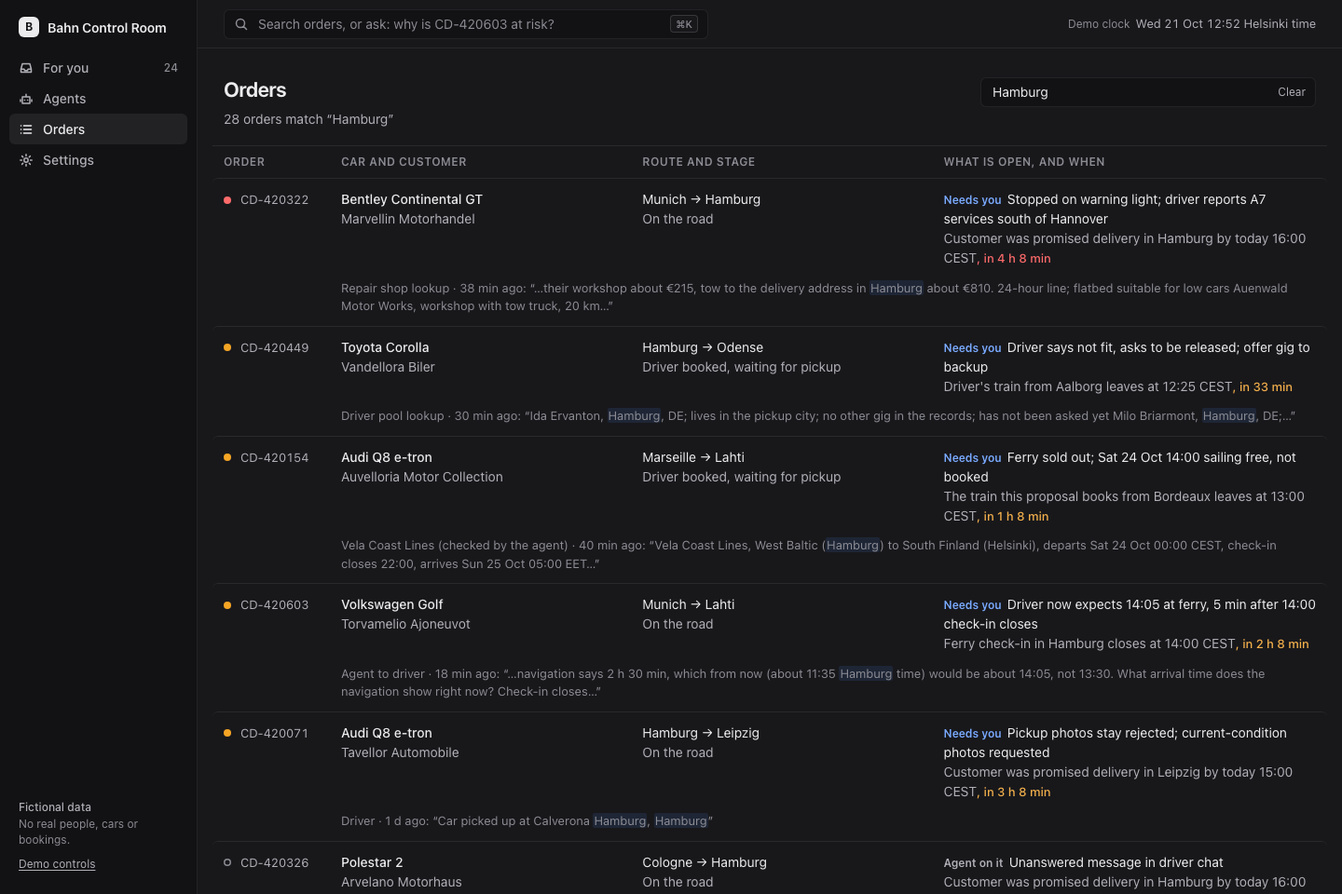
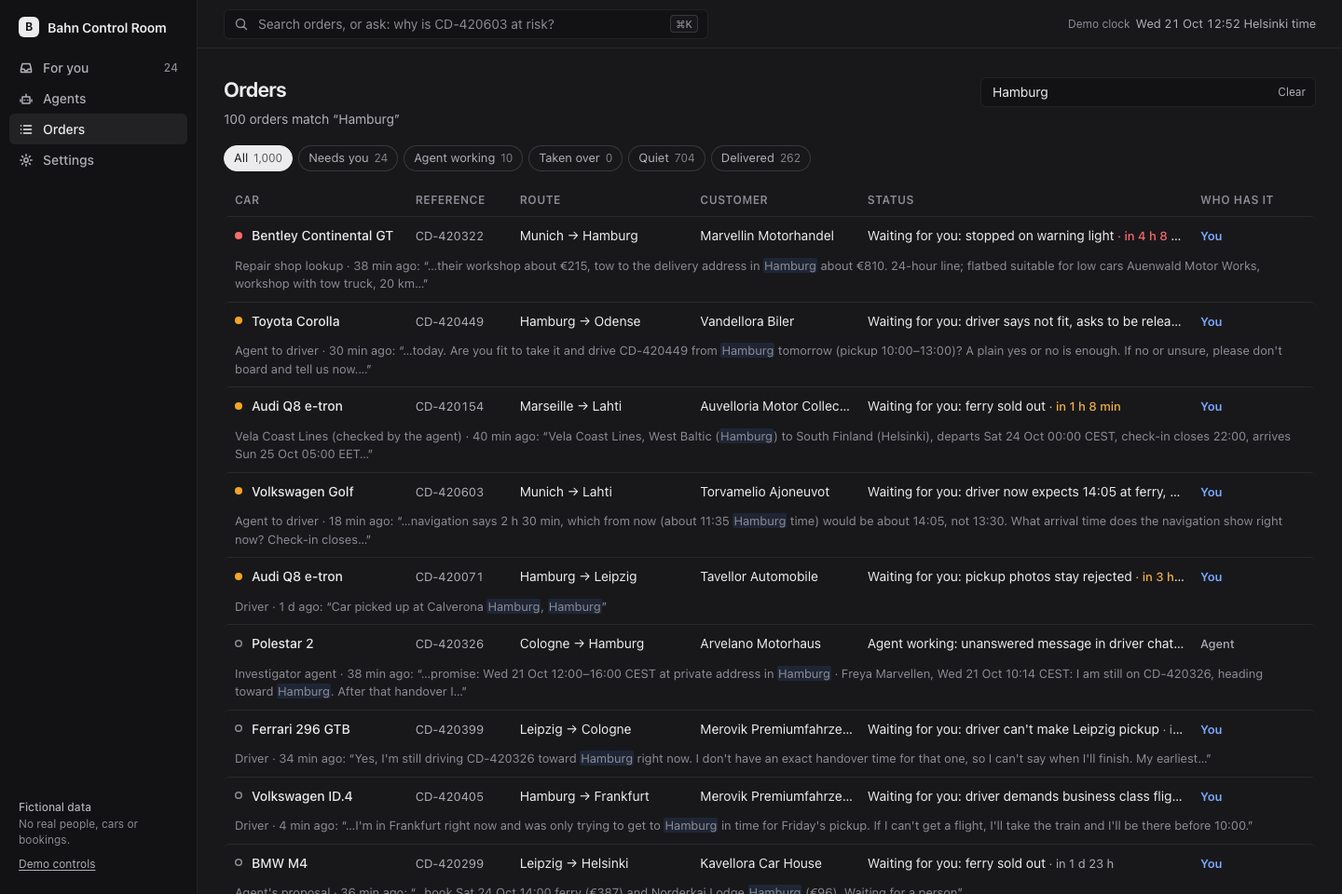
Orders: fix the 404 (stale dev server) and rebuild the page as a table
/orders and every order page returned 404 from a dev server that had
compiled an old starter page and lost its routes; a restart with a clean
.next fixed it. The Orders page is now a table (car, reference, route,
customer, one status sentence, who has it) with chips (Needs you, Agent
working, Taken over, Quiet, Delivered) counted with For you's own rule,
and it compiles only the open orders and one page of the rest, so it stays
fast with 1,000.

diff --git a/starter/app/orders/page.tsx b/starter/app/orders/page.tsx
@@ -1,96 +1,140 @@
 import type { Metadata } from "next"
 import Link from "next/link"
 import { connection } from "next/server"
-import { and, asc, eq, gt, inArray, notInArray, or } from "drizzle-orm"
-import { getCases, orderCount, ordersWithOpenItems, search, type SearchHit } from "@/lib/case"
+import { and, asc, eq, notInArray } from "drizzle-orm"
+import { getCases, orderCount, search, type SearchHit } from "@/lib/case"
 import { now as clockNow } from "@/lib/clock"
 import { db } from "@/lib/db"
-import { orderView } from "@/lib/queue"
-import { quietLine } from "@/lib/quiet-check"
-import { agentRuns, cards, orders } from "@/lib/schema"
+import { holdings, orderView } from "@/lib/queue"
+import { orders } from "@/lib/schema"
 import { liveSignals } from "@/lib/signals"
+import { type Holder, listStatus, problemPhrase } from "@/lib/status"
 import { compareUrgency, urgency, withProposalDeadline } from "@/lib/urgency"
 import { Marked } from "../ui/marked"
 
 export const metadata: Metadata = { title: "Orders" }
 
-type Props = { searchParams: Promise<{ q?: string; quiet?: string }> }
+type Show = "you" | "agent" | "taken" | "quiet" | "delivered"
+type Props = { searchParams: Promise<{ q?: string; show?: string; n?: string }> }
 
-/** Quiet orders shown per page: with 1,000 orders only the open ones and a page of quiet ones are compiled. */
-const QUIET_PAGE = 100
+const CHIPS: { id: Show; label: string }[] = [
+  { id: "you", label: "Needs you" }, { id: "agent", label: "Agent working" }, { id: "taken", label: "Taken over" },
+  { id: "quiet", label: "Quiet" }, { id: "delivered", label: "Delivered" },
+]
+/** Rows per page of orders with nothing open: with 1,000 orders only the open ones and one page of the rest are compiled. */
+const PAGE = 100
+const WHO: Record<Holder, string> = { you: "You", agent: "Agent", nobody: "Nobody needed" }
 
 export default async function Orders({ searchParams }: Props) {
   await connection()
-  const { q = "", quiet: quietParam } = await searchParams
-  const query = q.trim()
-  const quietShown = Math.min(Math.max(Number(quietParam) || QUIET_PAGE, QUIET_PAGE), 5000)
+  const params = await searchParams
+  const query = (params.q ?? "").trim()
+  const show = CHIPS.some((chip) => chip.id === params.show) ? params.show as Show : null
+  const shown = Math.min(Math.max(Number(params.n) || PAGE, PAGE), 5000)
   const at = await clockNow()
-  const [hits, openCards, agentWork, openIds, total] = await Promise.all([
+  const [hits, held, deliveredRows, total] = await Promise.all([
     query ? search(query, 100) : null,
-    db.select({ orderId: cards.orderId, group: cards.group, headline: cards.headline, options: cards.options }).from(cards).where(eq(cards.status, "open")),
-    // An agent on the order: working, waiting for a driver or site, or finished and looking again later.
-    db.select({ orderId: agentRuns.orderId }).from(agentRuns).where(and(inArray(agentRuns.agent, ["Investigator", "Driver support"]),
-      or(inArray(agentRuns.status, ["running", "waiting_driver", "waiting_site"]), and(eq(agentRuns.status, "done"), gt(agentRuns.nextCheckAt, at))))),
-    ordersWithOpenItems(),
+    // Who has each open order, by the same rules as For you's header.
+    holdings(at),
+    // A cheap first cut for the Delivered chip: the order record's status. The compiled case file still decides each row.
+    db.select({ id: orders.id }).from(orders).where(eq(orders.status, "DELIVERED")),
     orderCount(),
   ])
-  // Open means a card waiting for a person, a live signal, or an agent still on it: the same orders For you counts.
-  const cardOf = new Map(openCards.flatMap((row) => [row.orderId, ...(row.group ?? []).map((member) => member.order_id)].map((id) => [id, row] as const)))
-  const agentOn = new Set(agentWork.map((row) => row.orderId).filter((id): id is string => !!id))
-  // Compile only what is shown: the matches, or every order with something open and one page of quiet ones.
-  const open = new Set([...openIds, ...cardOf.keys(), ...agentOn])
-  const quietIds = hits ? [] : (await db.select({ id: orders.id }).from(orders)
-    .where(open.size ? notInArray(orders.id, [...open]) : undefined).orderBy(asc(orders.reference)).limit(quietShown)).map((row) => row.id)
-  const files = await getCases(hits ? hits.map((hit) => hit.orderId) : [...open, ...quietIds])
-  const quietTotal = hits ? 0 : total - open.size
-  const byId = new Map(files.map((file) => [file.order.id, file]))
-  const rows = (hits ? hits.map((hit) => ({ file: byId.get(hit.orderId)!, snippet: hit.snippet })) : files.map((file) => ({ file, snippet: null as SearchHit["snippet"] })))
-    .filter((row) => !!row.file)
-    .map((row) => {
-      const card = cardOf.get(row.file.order.id) ?? null
-      const primary = card?.options.find((option) => option.kind !== "reject" && option.kind !== "answer") ?? null
-      return { ...row, card, urgency: withProposalDeadline(urgency(row.file, at), primary, at), open: !!card || agentOn.has(row.file.order.id) || liveSignals(row.file).length > 0 }
-    })
+  const takenOver = new Set<string>()
+  const { cardOf, holding } = held
+
+  // Who has each order, so the chips can count 1,000 orders while only the open ones are compiled.
+  const open = new Set([...holding.keys(), ...takenOver])
+  const delivered = new Set(deliveredRows.map((row) => row.id).filter((id) => !open.has(id)))
+  const groupOf = (id: string): Show => takenOver.has(id) ? "taken" : holding.get(id) === "agent" ? "agent" : open.has(id) ? "you" : delivered.has(id) ? "delivered" : "quiet"
+  const counts: Record<Show, number> = { you: 0, agent: 0, taken: 0, delivered: delivered.size, quiet: 0 }
+  for (const id of open) counts[groupOf(id)] += 1
+  counts.quiet = total - open.size - delivered.size
+
+  // Compile only what is shown: the matches, one chip's orders, or every open order and one page of the rest.
+  let ids: string[]
+  if (hits) ids = hits.map((hit) => hit.orderId).filter((id) => !show || groupOf(id) === show)
+  else if (show === "you" || show === "agent" || show === "taken") ids = [...open].filter((id) => groupOf(id) === show)
+  else if (show === "delivered") ids = (await db.select({ id: orders.id }).from(orders).where(and(eq(orders.status, "DELIVERED"), open.size ? notInArray(orders.id, [...open]) : undefined)).orderBy(asc(orders.reference)).limit(shown)).map((row) => row.id)
+  else {
+    const exclude = show === "quiet" ? [...open, ...delivered] : [...open]
+    const rest = (await db.select({ id: orders.id }).from(orders).where(exclude.length ? notInArray(orders.id, exclude) : undefined).orderBy(asc(orders.reference)).limit(shown)).map((row) => row.id)
+    ids = show === "quiet" ? rest : [...open, ...rest]
+  }
+  const known = new Map(held.files.map((file) => [file.order.id, file]))
+  const files = [...ids.filter((id) => known.has(id)).map((id) => known.get(id)!), ...await getCases(ids.filter((id) => !known.has(id)))]
+  const snippets = new Map((hits ?? []).map((hit) => [hit.orderId, hit.snippet] as const))
+  const rows = files.map((file) => {
+    const id = file.order.id
+    const card = cardOf.get(id) ?? null
+    const primary = card?.options.find((option) => option.kind !== "reject" && option.kind !== "answer") ?? null
+    const group = groupOf(id)
+    const holder: Holder = group === "you" || group === "taken" ? "you" : group === "agent" ? "agent" : "nobody"
+    const problem = problemPhrase(card?.headline ?? liveSignals(file)[0])
+    return {
+      file, card, holder, snippet: snippets.get(id) ?? null as SearchHit["snippet"],
+      urgency: withProposalDeadline(urgency(file, at), primary, at), open: open.has(id),
+      status: listStatus(file, { holder, problem: holder === "nobody" ? null : problem, takenOver: takenOver.has(id) }, at),
+    }
+  })
   // Filtered or not, the order is the same: open first, then what is lost first.
   rows.sort((a, b) => Number(b.open) - Number(a.open) || compareUrgency(a.urgency, b.urgency) || a.file.order.reference.localeCompare(b.file.order.reference))
+  const paged = show === "quiet" || show === "delivered" || !show
+  const pageTotal = show === "quiet" ? counts.quiet : show === "delivered" ? counts.delivered : total - open.size
+  const shownRest = rows.filter((row) => !row.open).length
+  const href = (next: { show?: Show | null; n?: number }) => {
+    const search = new URLSearchParams()
+    if (query) search.set("q", query)
+    const chip = next.show === undefined ? show : next.show
+    if (chip) search.set("show", chip)
+    if (next.n) search.set("n", String(next.n))
+    const text = search.toString()
+    return text ? `/orders?${text}` : "/orders"
+  }
 
   return <main className="content wide">
     <div className="page-head">
       <div>
         <h1>Orders</h1>
-        <p className="page-sub">{hits ? <>{hits.length} order{hits.length === 1 ? "" : "s"} match “{query}”</> : <>All {total.toLocaleString("en-GB")} orders, open ones first: <span className="legend"><span className="mark safety" />safety <span className="mark time" />lost within 4 hours or already missed <span className="mark" />later</span></>}</p>
+        <p className="page-sub">{hits ? <>{rows.length} order{rows.length === 1 ? "" : "s"} match “{query}”</> : <>All {total.toLocaleString("en-GB")} orders, open ones first, then what is lost first</>}</p>
       </div>
       <form action="/orders" role="search" className="search" style={{ maxWidth: 360 }}>
-        <label className="search-box"><span className="sr-only">Filter orders</span><input name="q" defaultValue={query} placeholder="Filter: reference, name, city or any word" />
-          {query && <Link className="clear" href="/orders" aria-label="Clear the filter">Clear</Link>}</label>
+        {show && <input type="hidden" name="show" value={show} />}
+        <label className="search-box"><span className="sr-only">Search orders</span><input name="q" defaultValue={query} placeholder="Search: reference, plate, name, city or any word" />
+          {query && <Link className="clear" href={show ? `/orders?show=${show}` : "/orders"} aria-label="Clear the search">Clear</Link>}</label>
       </form>
     </div>
-    {rows.length === 0 && <div className="empty"><h2>No order matches “{query}”.</h2><p>Search covers references, plates, VINs, cars, customers, drivers, cities and every message.</p></div>}
-    {rows.length > 0 && <div className="list" role="list">
-      <div className="list-row list-head" aria-hidden="true"><span>Order</span><span>Car and customer</span><span>Route and stage</span><span>What is open, and when</span></div>
-      {rows.map(({ file, snippet, urgency: u, open, card }) => {
-        const view = orderView(file)
-        const tone = u.safety ? "safety" : u.timeRisk ? "time" : ""
-        // Who is on it, and what the problem is: the card's headline without the car, or the first open item.
-        const who = card ? "Needs you" : agentOn.has(file.order.id) ? "Agent on it" : null
-        const problem = card ? card.headline.replace(/^[^:]{2,60}:\s*/, "").replace(/^./, (c) => c.toUpperCase()) : liveSignals(file)[0]?.replace(/^./, (c) => c.toUpperCase()) ?? null
-        // A quiet order's line without the stage the column next to it already shows.
-        const quiet = quietLine(file, at).replace(/^Nothing open\.\s*/, "")
-        const quietNext = quiet.includes("; ") ? quiet.slice(quiet.indexOf("; ") + 2) : quiet
-        return <Link className="list-row" role="listitem" href={`/orders/${file.order.reference}`} key={file.order.id}>
-          <span className="ref"><span className={`mark ${u.safety && open ? "safety" : u.timeRisk && open ? "time" : open ? "" : "none"}`} aria-hidden="true" />{file.order.reference}</span>
-          <span><span className="car">{file.order.car.label}</span><br /><span className="sub">{file.order.customer.name}</span></span>
-          <span><span>{view.route}</span><br /><span className="sub">{file.order.stage.label}</span></span>
-          {open ? <span>
-            {(who || problem) && <span className="list-problem">{who && <b className={`who${card ? " you" : ""}`}>{who}</b>}{problem}</span>}
-            <span className="sub">{u.sentence}{u.relative && <span className={`when ${tone} nowrap`}>, {u.relative}</span>}</span>
-          </span> : <span className="sub">Nothing open: {quietNext.replace(/^./, (c) => c.toLowerCase())}</span>}
-          {snippet && <span className="snippet">{snippet.source} · {snippet.when}: “<Marked text={snippet.text} />”</span>}
+    <nav className="filters" aria-label="Show orders">
+      <Link className="filter" href={href({ show: null })} aria-current={!show ? "true" : undefined}>All <span className="n">{total.toLocaleString("en-GB")}</span></Link>
+      {CHIPS.map((chip) => <Link key={chip.id} className="filter" href={href({ show: chip.id })} aria-current={show === chip.id ? "true" : undefined}>
+        {chip.label} <span className="n">{counts[chip.id].toLocaleString("en-GB")}</span>
+      </Link>)}
+    </nav>
+    {rows.length === 0 && <div className="empty">
+      <h2>{query ? `No order matches “${query}”${show ? " in this filter" : ""}.` : "No orders here right now."}</h2>
+      <p>{query ? "Search covers references, plates, VINs, cars, customers, drivers, cities and every record on an order." : "Pick another filter, or All."}</p>
+    </div>}
+    {rows.length > 0 && <div className="orders-table" role="table" aria-label="Orders">
+      <div className="ot-row ot-head" role="row">
+        {["Car", "Reference", "Route", "Customer", "Status", "Who has it"].map((label) => <span role="columnheader" key={label}>{label}</span>)}
+      </div>
+      {rows.map(({ file, snippet, urgency: u, open: isOpen, holder, status }) => {
+        const tone = isOpen && u.safety ? "safety" : isOpen && u.timeRisk ? "time" : ""
+        return <Link className="ot-row" role="row" href={`/orders/${file.order.reference}`} key={file.order.id}>
+          <span role="cell" className="ot-car" title={file.order.car.label}><span className={`mark ${tone || (isOpen ? "" : "none")}`} aria-hidden="true" />{file.order.car.label}</span>
+          <span role="cell" className="ot-ref">{file.order.reference}</span>
+          <span role="cell" title={orderView(file).route}>{orderView(file).route}</span>
+          <span role="cell" title={file.order.customer.name}>{file.order.customer.name}</span>
+          <span role="cell" className="ot-status" title={isOpen && u.relative ? `${status}. ${u.sentence}, ${u.relative}` : status}>
+            <span className="ot-text">{status}</span>{isOpen && u.relative && <span className={`when ${tone}`}>{u.relative}</span>}
+          </span>
+          <span role="cell" className={`ot-who ${holder}`}>{WHO[holder]}</span>
+          {snippet && <span className="ot-snippet">{snippet.source} · {snippet.when}: “<Marked text={snippet.text} />”</span>}
         </Link>
       })}
     </div>}
-    {!hits && quietTotal > quietShown && <p className="queue-end">
-      Showing {quietShown.toLocaleString("en-GB")} of {quietTotal.toLocaleString("en-GB")} orders with nothing open. <Link className="link" href={`/orders?quiet=${quietShown + QUIET_PAGE}`}>Show {QUIET_PAGE} more</Link>
+    {!hits && paged && pageTotal > shownRest && <p className="queue-end">
+      Showing {shownRest.toLocaleString("en-GB")} of {pageTotal.toLocaleString("en-GB")} {show === "delivered" ? "delivered orders" : "orders with nothing open"}. <Link className="link" href={href({ n: shown + PAGE })}>Show {PAGE} more</Link>
     </p>}
   </main>
 }

diff --git a/starter/lib/status.ts b/starter/lib/status.ts
@@ -2,8 +2,50 @@
 // is), then what is lost next. Built by code from the case file.
 
 import type { CaseFile } from "./case"
-import { dayAndClock, duration, minutesUntil } from "./time"
+import { dayAndClock, dayClockZone, duration, minutesUntil } from "./time"
 import type { Urgency } from "./urgency"
+
+/** Who has an order, for the Orders list: a person (a card waits, or Ops took it over), an agent, or nobody is needed. */
+export type Holder = "you" | "agent" | "nobody"
+
+/** "ferry sold out" from a card headline ("BMW M4: ferry sold out; 14:00 sailing still free") or a live signal. */
+export function problemPhrase(text: string | null | undefined): string | null {
+  if (!text) return null
+  const whole = text.replace(/^\d+ orders:\s*/, "").replace(/^[^:]{2,60}:\s*(?=\S)/, "").replace(/^(open|taken) (alert|task|incident):\s*/, "").trim()
+  // The part before the first ";" is the problem; a one-word part ("delivered") keeps what follows it.
+  const first = whole.split(/;\s/)[0]
+  const plain = first.length < 16 ? whole : first
+  if (!plain) return null
+  const short = plain.length > 72 ? `${plain.slice(0, 72).replace(/\s+\S*$/, "")}…` : plain
+  return short.charAt(0).toLowerCase() + short.slice(1)
+}
+
+/**
+ * One plain sentence per order for the Orders list: "Waiting for you: ferry sold out", "Agent working: driver may be
+ * ill", "Moving, 233 km to go", "Delivered Tue 20 Oct". Built by code from the case file and who has the order.
+ */
+export function listStatus(file: CaseFile, state: { holder: Holder; problem: string | null; takenOver: boolean }, now: Date): string {
+  const { order, plan } = file
+  if (state.takenOver) return `Taken over by Ops${state.problem ? `: ${state.problem}` : ""}`
+  if (state.holder === "you") return `Waiting for you${state.problem ? `: ${state.problem}` : ""}`
+  if (state.holder === "agent") return `Agent working${state.problem ? `: ${state.problem}` : ""}`
+  switch (order.stage.key) {
+    case "moving": return plan.lastPosition?.kmToGo != null ? `Moving, ${plan.lastPosition.kmToGo.toLocaleString("en-GB")} km to go` : "Moving, no GPS position yet"
+    case "delivered": {
+      const day = order.deliveredAt ? dayAndClock(order.deliveredAt, now, order.route.to?.zone) : ""
+      return day ? `Delivered ${day.slice(0, day.lastIndexOf(" "))}` : "Delivered"
+    }
+    case "cancelled": return "Cancelled"
+    case "at_transfer": return `At the transfer yard${order.route.via?.city ? ` in ${order.route.via.city}` : ""}`
+    case "driver_booked": {
+      const pickup = file.keyTimes.find((item) => item.key === "pickup_slot")
+      return `Driver booked${pickup ? `, pickup ${dayClockZone(pickup.start, now, pickup.zone)}` : ""}`
+    }
+    case "finding_driver": return "Offered to drivers, not taken yet"
+    case "ready": return "Not offered to drivers yet"
+    default: return "New, being prepared"
+  }
+}
 
 function stagePhrase(file: CaseFile, now: Date): string {
   const { order, plan } = file

diff --git a/starter/lib/queue.ts b/starter/lib/queue.ts
@@ -157,6 +157,37 @@ export async function getQueue(): Promise<{ now: string; items: QueueItem[]; cou
   }
 }
 
+export type Holding = "card" | "decided" | "agent" | "unattended"
+
+/**
+ * Who has each order with something open, by the same rules as For you's header: a card waits for a person, a person
+ * decided it in the last day, an agent works on it or watches it, or nobody has looked yet. Orders not in the map have
+ * nothing open. Compiles only the orders that can have something open (the rest are counted, not compiled).
+ */
+export async function holdings(at: Date): Promise<{ files: CaseFile[]; cardOf: Map<string, typeof cards.$inferSelect>; holding: Map<string, Holding> }> {
+  const [openCards, openIds, ordersWithRun, decidedRows] = await Promise.all([
+    db.select().from(cards).where(eq(cards.status, "open")),
+    ordersWithOpenItems(),
+    db.selectDistinct({ orderId: agentRuns.orderId, nextCheckAt: agentRuns.nextCheckAt, status: agentRuns.status }).from(agentRuns).where(inArray(agentRuns.agent, HANDLING_AGENTS)),
+    db.select({ orderId: cards.orderId, group: cards.group }).from(decisions).innerJoin(cards, eq(cards.id, decisions.cardId))
+      .where(and(isNull(decisions.undoneAt), gte(decisions.decidedAt, new Date(at.getTime() - 24 * 3600_000)), sql`${decisions.actor} <> 'Agent, under your rule'`)),
+  ])
+  const cardOf = new Map(openCards.flatMap((row) => [row.orderId, ...(row.group ?? []).map((member) => member.order_id)].map((id) => [id, row] as const)))
+  const watching = new Set(ordersWithRun.filter((run) => run.status === "done" && run.nextCheckAt && run.nextCheckAt > at).map((run) => run.orderId))
+  const withRun = new Set(ordersWithRun.map((run) => run.orderId))
+  const decidedByYou = new Set(decidedRows.flatMap((row) => [row.orderId, ...(row.group ?? []).map((member) => member.order_id)]))
+  const ids = [...new Set([...openIds, ...watching, ...decidedByYou, ...cardOf.keys()].filter((id): id is string => !!id))]
+  const files = ids.length ? await getCases(ids) : []
+  const holding = new Map<string, Holding>()
+  for (const file of files) {
+    const id = file.order.id
+    if (cardOf.has(id)) holding.set(id, "card")
+    else if (!liveSignals(file).length && !watching.has(id)) continue
+    else holding.set(id, decidedByYou.has(id) ? "decided" : withRun.has(id) ? "agent" : "unattended")
+  }
+  return { files, cardOf, holding }
+}
+
 /** Open cards for the rail badge. */
 export async function openCardCount(): Promise<number> {
   const [row] = await db.select({ n: count() }).from(cards).where(eq(cards.status, "open"))

diff --git a/starter/app/globals.css b/starter/app/globals.css
@@ -397,6 +397,31 @@ time[title] { cursor: help; text-decoration: none; }
 .legend .mark { margin: 0 0 0 6px; }
 mark { background: var(--accent-soft); color: inherit; border-radius: 2px; padding: 0 1px; }
 
+/* ---------- Orders table ---------- */
+
+a.filter { text-decoration: none; }
+.filter[aria-current="true"] { background: var(--text); border-color: var(--text); color: var(--surface); }
+.orders-table { font-size: 14px; }
+.ot-row {
+  display: grid; grid-template-columns: minmax(0, 1.25fr) 96px minmax(0, 1.25fr) minmax(0, 1.15fr) minmax(0, 2.4fr) 112px;
+  gap: 16px; padding: 9px 12px; border-radius: var(--radius-s); align-items: baseline; color: inherit; text-decoration: none;
+}
+.ot-row > span { min-width: 0; white-space: nowrap; overflow: hidden; text-overflow: ellipsis; }
+.ot-row:hover { background: var(--hover); }
+.ot-row + .ot-row { border-top: 1px solid var(--line); }
+.ot-head { font-size: 12px; font-weight: 600; color: var(--text-3); text-transform: uppercase; letter-spacing: 0.04em; padding-top: 8px; padding-bottom: 8px; }
+.ot-head:hover { background: none; }
+.ot-car { font-weight: 500; display: flex; align-items: baseline; gap: 10px; }
+.ot-car .mark { margin-top: 0; align-self: center; }
+.ot-ref { font-size: 13px; color: var(--text-2); font-variant-numeric: tabular-nums; }
+.ot-row > .ot-status { display: flex; gap: 8px; align-items: baseline; }
+.ot-status .ot-text { min-width: 0; overflow: hidden; text-overflow: ellipsis; }
+.ot-status .when { flex: none; font-size: 13px; }
+.ot-who { font-size: 13px; color: var(--text-3); }
+.ot-who.you { color: var(--accent-text); font-weight: 600; }
+.ot-who.agent { color: var(--text-2); font-weight: 500; }
+.ot-snippet { grid-column: 1 / -1; font-size: 13px; color: var(--text-3); margin-top: -4px; white-space: normal !important; }
+
 /* ---------- Responsive ---------- */
 
 @media (max-width: 1100px) {

diff --git a/PROCESS-LOG.md b/PROCESS-LOG.md
@@ -1454,3 +1454,45 @@ default shots). Checked: typecheck, `npm test`, every image link in the README r
 
 **Left as it is.** 28 traces in `traces/` from development runs before the recording (not part of
 `fixtures/`) are still untracked, as they were after phase 8.
+
+## Sunday morning, before the code freeze (11:30): six items in priority order
+
+The brief for this round: six items in priority order, each committed, screenshotted and logged, stopping
+after the last finished item if time runs out. An earlier request in the same session (a code check for the
+ill-driver eval, and re-recording four orders' runs) was queued behind this list; see the end of this log for
+whether it was reached.
+
+### 1. Orders: the 404, and the page rebuilt as a table
+
+**The 404 was not the code.** `/orders` and every `/orders/CD-…` returned 404 while `app/orders/page.tsx` and
+`app/orders/[reference]/page.tsx` were on disk and unchanged since the last commit. The dev server's log showed
+why: at some point after 03:51 it compiled an old starter `app/page.tsx` ("Can't resolve
+'./components/app-frame'"), as if the working tree had briefly held the original starter, and its route table
+never recovered after the files came back. Stopping it, deleting `.next` and starting `next dev` again brought
+both routes back (200). The same lesson as phase 2: a long-running dev server that has seen files swap under it
+is not to be trusted; restart it before believing a 404.
+
+**The page, as asked.** `/orders` is now a table: Car, Reference, Route (city → city), Customer, Status (one
+plain sentence) and Who has it (You / Agent / Nobody needed). The whole row opens the order. Filter chips with
+counts: All, Needs you, Agent working, Taken over, Quiet, Delivered, plus the search box, and the chip stays on
+while searching.
+- The status sentence is code (`listStatus` in `lib/status.ts`): "Waiting for you: ferry sold out", "Agent
+  working: unanswered message in driver chat", "Moving, 233 km to go", "Delivered Tue 20 Oct", "Driver booked,
+  pickup tomorrow 10:00 CEST". The problem comes from the card's headline without the car, cut at its first
+  ";" unless that leaves one word ("Waiting for you: delivered" said nothing; it now keeps "delivered; customer
+  awaits invoice reference check"). The countdown sits beside the sentence and is never cut by the ellipsis.
+- **Who has it uses the same rule as For you's header.** The first version counted 32 orders under Needs you
+  while For you said 24: the 8 orders an agent closed without a card (their dataset alert is still open) fell into
+  my fallback. The classification now lives in one place, `holdings()` in `lib/queue.ts`, with the header's rules
+  (a card waits; a person decided it in the last day; an agent works on it or watches it; nobody has looked yet),
+  so the two pages count the same orders: 24 need you, 10 with agents, 66 with nothing open (50 quiet, 16
+  delivered).
+- **1,000 orders.** Only the open orders and one page of 100 of the rest are compiled; the chips count from the
+  database. Delivered uses the order record's status as a first cut and the compiled case file for each row.
+  Measured with scale mode on (dev server, warm): All 0.42 s (134 rows), Needs you 0.16 s, Agent working 0.12 s,
+  Quiet 0.29 s, Delivered 0.27 s, a search 0.32 s; "Show 100 more" pages on.
+- Taken over shows 0 until item 2 exists.
+
+**Checked:** typecheck; `npm run smoke` (For you, all 100 order pages, search); every chip and a search fetched at
+100 and at 1,000 orders; screenshots `screens/orders-*`, `orders-needs-you-*`, `orders-filter-*` in light and dark,
+looked at (the first had the countdown cut off by the ellipsis: "in 4 h 8 …"; fixed).
